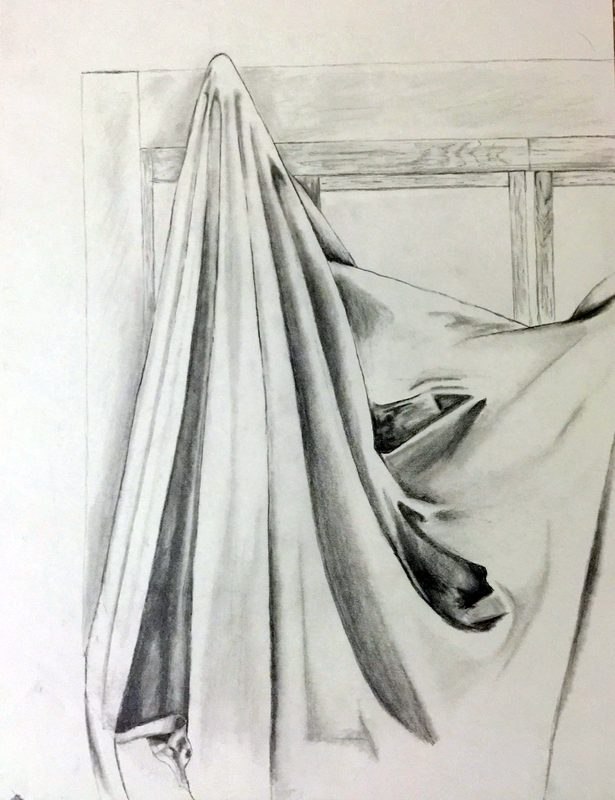
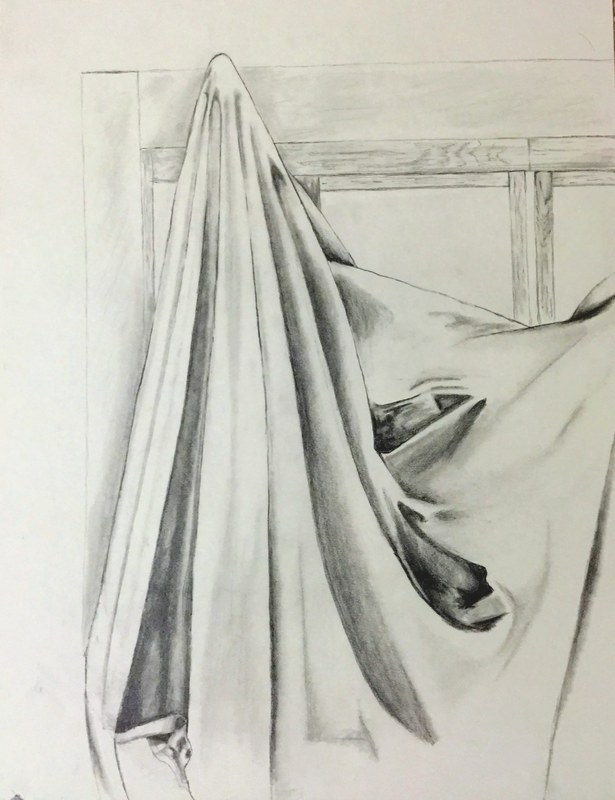
Soften Drapery Study to restore its pencil shading (#37)
The image had been contrast-boosted and sharpened, crushing the soft
graphite gradients into bands with halos and near-white paper. Smooth
the over-sharpening, ease the contrast (darks kept rich, paper off pure
white with a slight warm tone) and refresh its links.

Claude-Session: https://claude.ai/code/session_01KUT7KnyGLwFyNUW9xtsMYK

diff --git a/art.html b/art.html
@@ -34,7 +34,7 @@
     </div>
     <div class="ex-salon" aria-label="Selected works">
       <div class="ex-col ex-col-1">
-        <button type="button" class="ex-piece is-paper" data-open="images/art-drapery.jpg" style="--i:0"><img src="images/art-drapery-thumb.jpg" width="615" height="800" alt="Drapery Study, a graphite drawing of cloth hanging from a frame"><span class="ex-label"><strong>Drapery Study</strong>Graphite on paper</span></button>
+        <button type="button" class="ex-piece is-paper" data-open="images/art-drapery.jpg?v=2" style="--i:0"><img src="images/art-drapery-thumb.jpg?v=2" width="615" height="800" alt="Drapery Study, a graphite drawing of cloth hanging from a frame"><span class="ex-label"><strong>Drapery Study</strong>Graphite on paper</span></button>
         <button type="button" class="ex-piece is-framed" data-open="images/art-creation-hands.jpg" style="--i:3"><img src="images/art-creation-hands-thumb.jpg" width="800" height="568" alt="The Reach, an acrylic study of two reaching hands after Michelangelo"><span class="ex-label"><strong>The Reach</strong>Acrylic on canvas</span></button>
       </div>
       <div class="ex-col ex-col-2">
@@ -166,7 +166,7 @@
           <figcaption><h3 class="art-title">Underworld</h3><p class="art-meta"><span class="medium-dot" style="background-image:url(images/medium-graphite.jpg)" aria-hidden="true"></span>Graphite on paper</p></figcaption>
         </figure>
         <figure class="art-piece">
-          <button type="button" class="art-open" data-full="images/art-drapery.jpg" data-title="Drapery Study" data-meta="Graphite on paper"><img src="images/art-drapery-thumb.jpg" srcset="images/art-drapery-thumb.jpg 615w, images/art-drapery.jpg 1537w" sizes="(max-width: 767px) 100vw, 380px" width="615" height="800" loading="lazy" alt="Graphite study of a white sheet draped over the back of a wooden chair"></button>
+          <button type="button" class="art-open" data-full="images/art-drapery.jpg?v=2" data-title="Drapery Study" data-meta="Graphite on paper"><img src="images/art-drapery-thumb.jpg?v=2" srcset="images/art-drapery-thumb.jpg?v=2 615w, images/art-drapery.jpg?v=2 1537w" sizes="(max-width: 767px) 100vw, 380px" width="615" height="800" loading="lazy" alt="Graphite study of a white sheet draped over the back of a wooden chair"></button>
           <figcaption><h3 class="art-title">Drapery Study</h3><p class="art-meta"><span class="medium-dot" style="background-image:url(images/medium-graphite.jpg)" aria-hidden="true"></span>Graphite on paper</p></figcaption>
         </figure>
         <figure class="art-piece">
